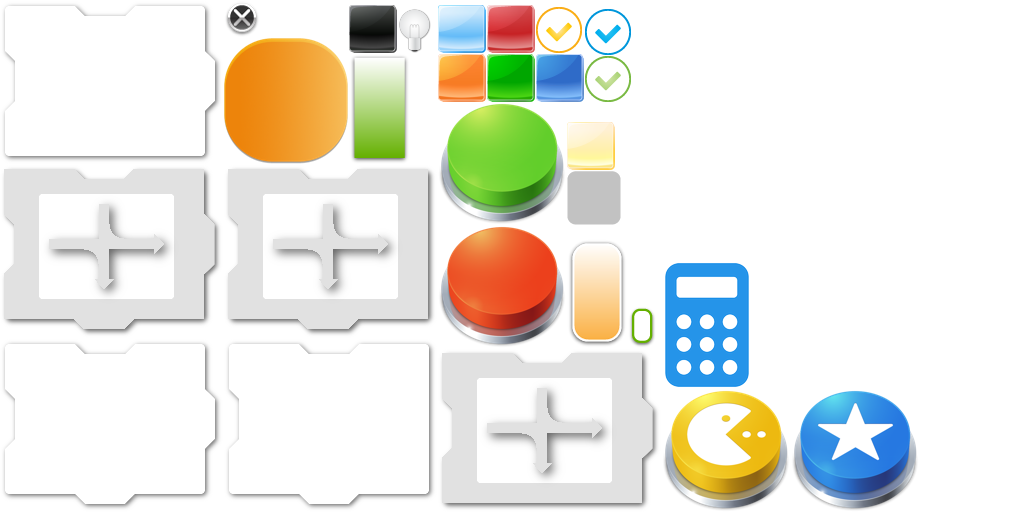
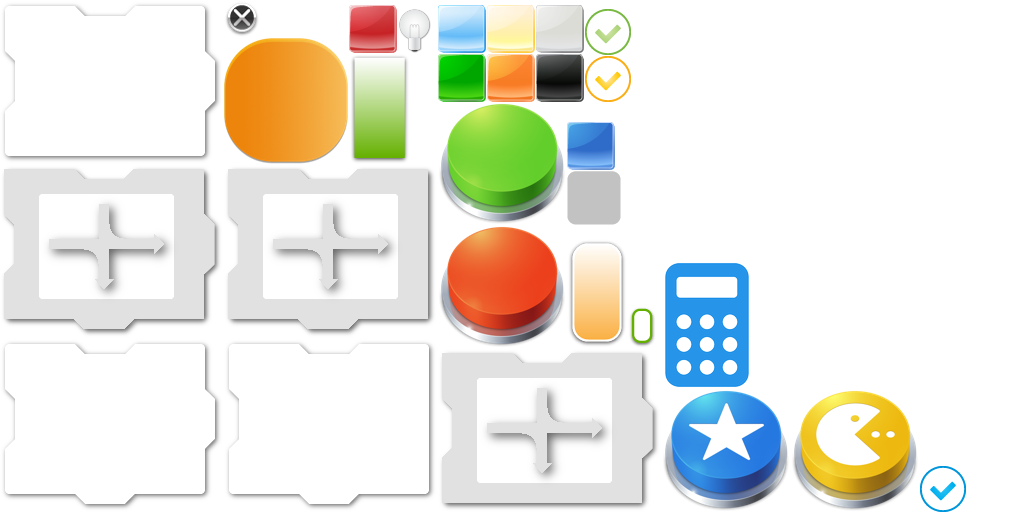
Put bulgy action ui on chuck

Changed region(s): [[0.3438, 0.0, 0.625, 0.3438], [0.6562, 0.75, 0.9375, 1.0]]

diff --git a/Assets/Scripts/Chuck.cs b/Assets/Scripts/Chuck.cs
@@ -13,8 +13,8 @@ public class Chuck : MonoBehaviour {
 	public System.Guid actorGuid;
 	public int actionGuid;
 
-	Color inputColor = new Color(1f, 0.3f, 0.3f);
-	Color outputColor = new Color(0.3f, 0.3f, 1f);
+	Color inputColor = new Color(1f, 0.5f, 0.5f);
+	Color outputColor = new Color(0.5f, 0.5f, 1f);
 	
 	public void SetAction(System.Guid actorID, int actionID)
 	{
@@ -32,32 +32,58 @@ public class Chuck : MonoBehaviour {
 			Transform detail = this.transform.FindChild("Detail");
 			if (detail != null) {
 				detail.gameObject.SetActive(true);
-				switch (actor.charactorType) {
-				case Actor.eCharactor.BUTTY:
-					switch (actionGuid) {
-					case -63941309:
+				UIButton button = detail.GetComponentInChildren<UIButton> () as UIButton;
+				switch (actor.charactorType)
+				{
+					case Actor.eCharactor.BUTTY:
 					{
-						UIButton button = detail.GetComponentInChildren<UIButton> () as UIButton;
-						button.normalSprite = "1407589060_Perspective Button - Games";
 						baseButtonColor.defaultColor = inputColor;
+						switch (actionGuid) 
+						{
+							case -63941309:
+								button.normalSprite = "1407589060_Perspective Button - Games";
+								break;
+							case -1620462626:
+								button.normalSprite = "Button_Red";
+								break;
+							case -1483390853:
+								button.normalSprite = "1407862950_Perspective Button - Favorites";
+								break;
+						}
 						break;
 					}
-					case -1620462626:
+					case Actor.eCharactor.BULBY:
 					{
-						UIButton button = detail.GetComponentInChildren<UIButton> () as UIButton;
-						button.normalSprite = "Button_Red";
-						baseButtonColor.defaultColor = inputColor;
+						baseButtonColor.defaultColor = outputColor;
+						switch (actionGuid)
+						{
+							case -526438998:
+								button.normalSprite = "1407405112_Black_button";
+								break;
+							case -844790351:
+								button.normalSprite = "1407922654_Silver_button";
+								break;
+							case -323650059:
+								button.normalSprite = "1407405125_Red_button";
+								break;
+							case -268715499:
+								button.normalSprite = "1407405122_Green_button";
+								break;
+							case -1310113180:
+								button.normalSprite = "1407405123_Dark_blue_button";
+								break;
+							case -135481751:
+								button.normalSprite = "1407405117_Yellow_button";
+								break;
+							case -356674938:
+								button.normalSprite = "1407405119_Orange_button";
+								break;
+							case -1155006195:
+								button.normalSprite = "1407405121_Light_blue_button";
+								break;
+						}
 						break;
 					}
-					case -1483390853:
-					{
-						UIButton button = detail.GetComponentInChildren<UIButton> () as UIButton;
-						button.normalSprite = "1407862950_Perspective Button - Favorites";
-						baseButtonColor.defaultColor = inputColor;
-						break;
-					}
-					}
-					break;
 				}
 			}
 		}
@@ -77,7 +103,7 @@ public class Chuck : MonoBehaviour {
 
 	void OnPress (bool isPressed) 
 	{
-		Debug.Log ("Chuck OnPress");
+		Debug.Log ("Chuck OnPress:"+Guid.ToString ());
 		ChuckPropertyManager.Instance.Show ();
 		ChuckPropertyManager.SelectedChuckGuid = Guid;
 	}
